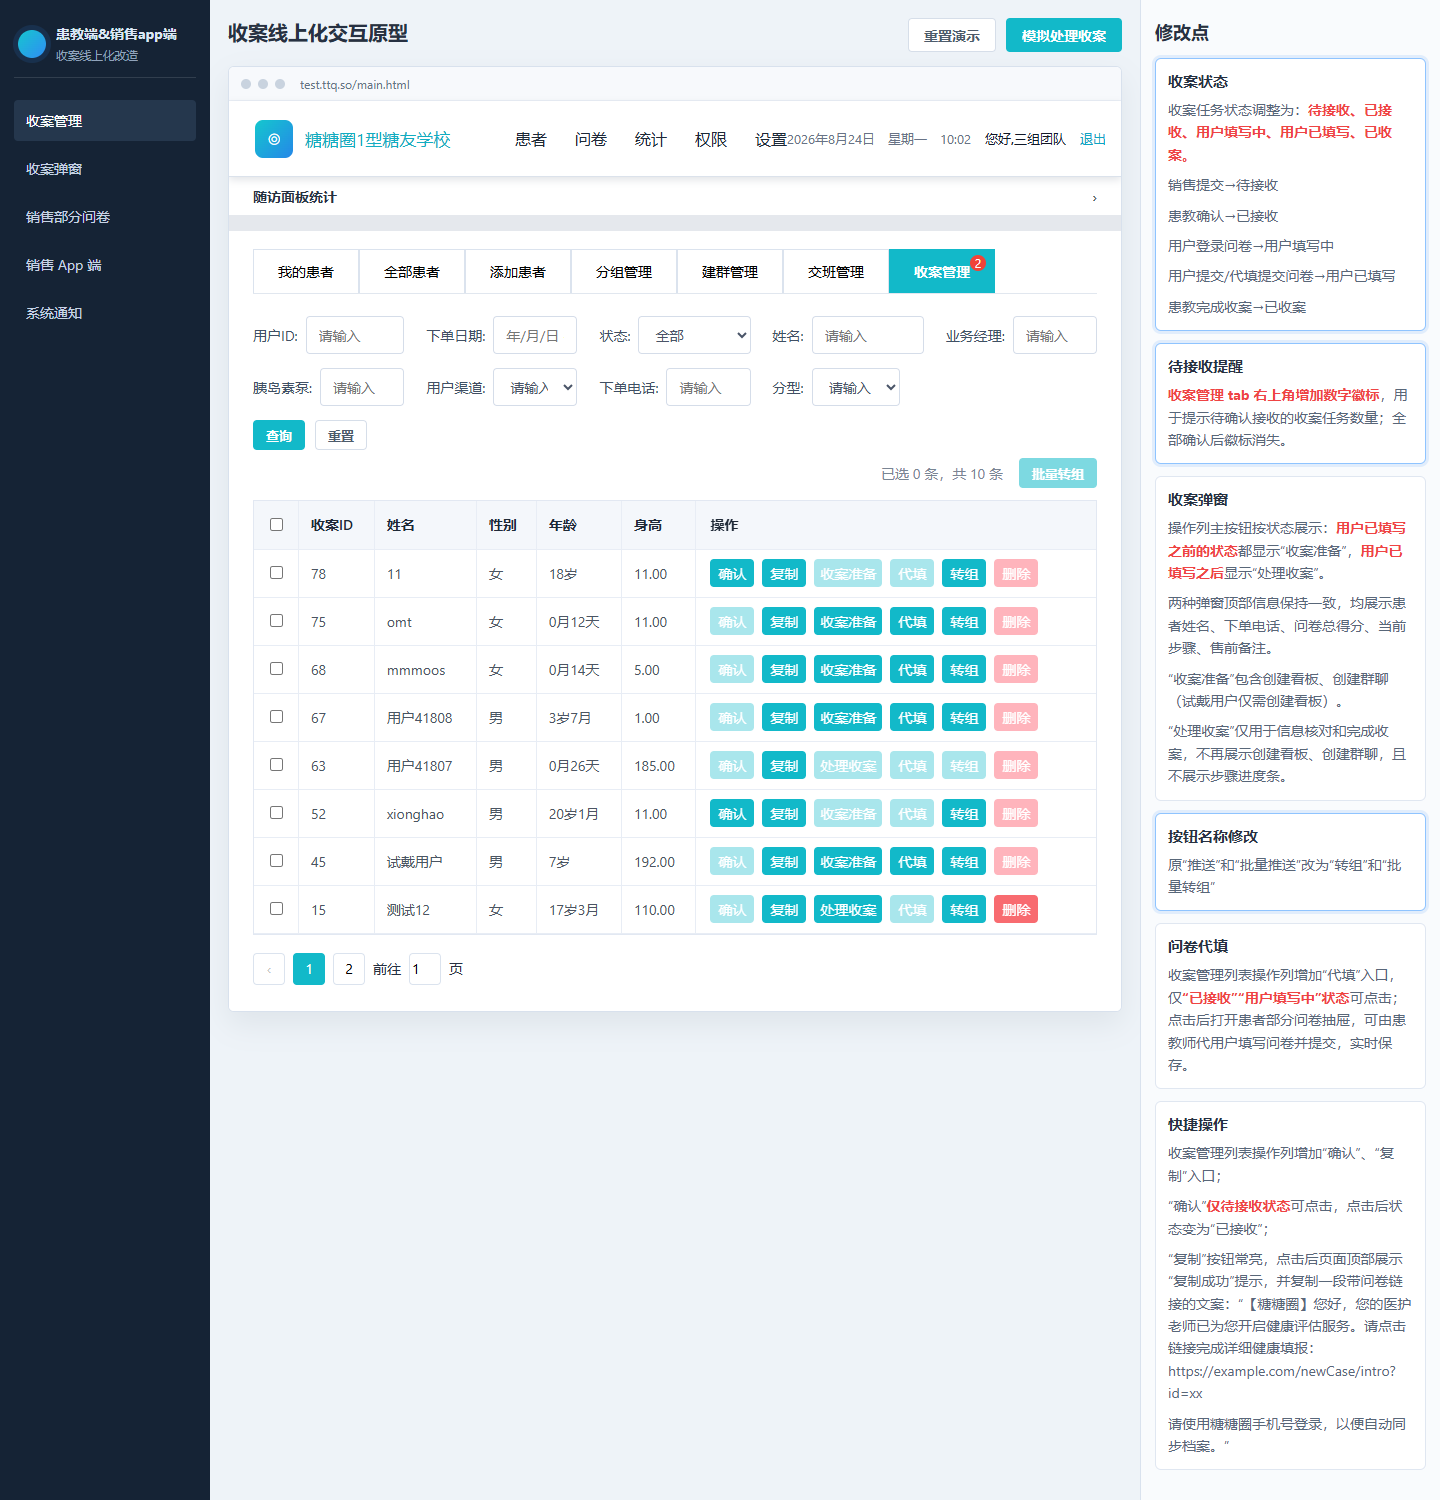
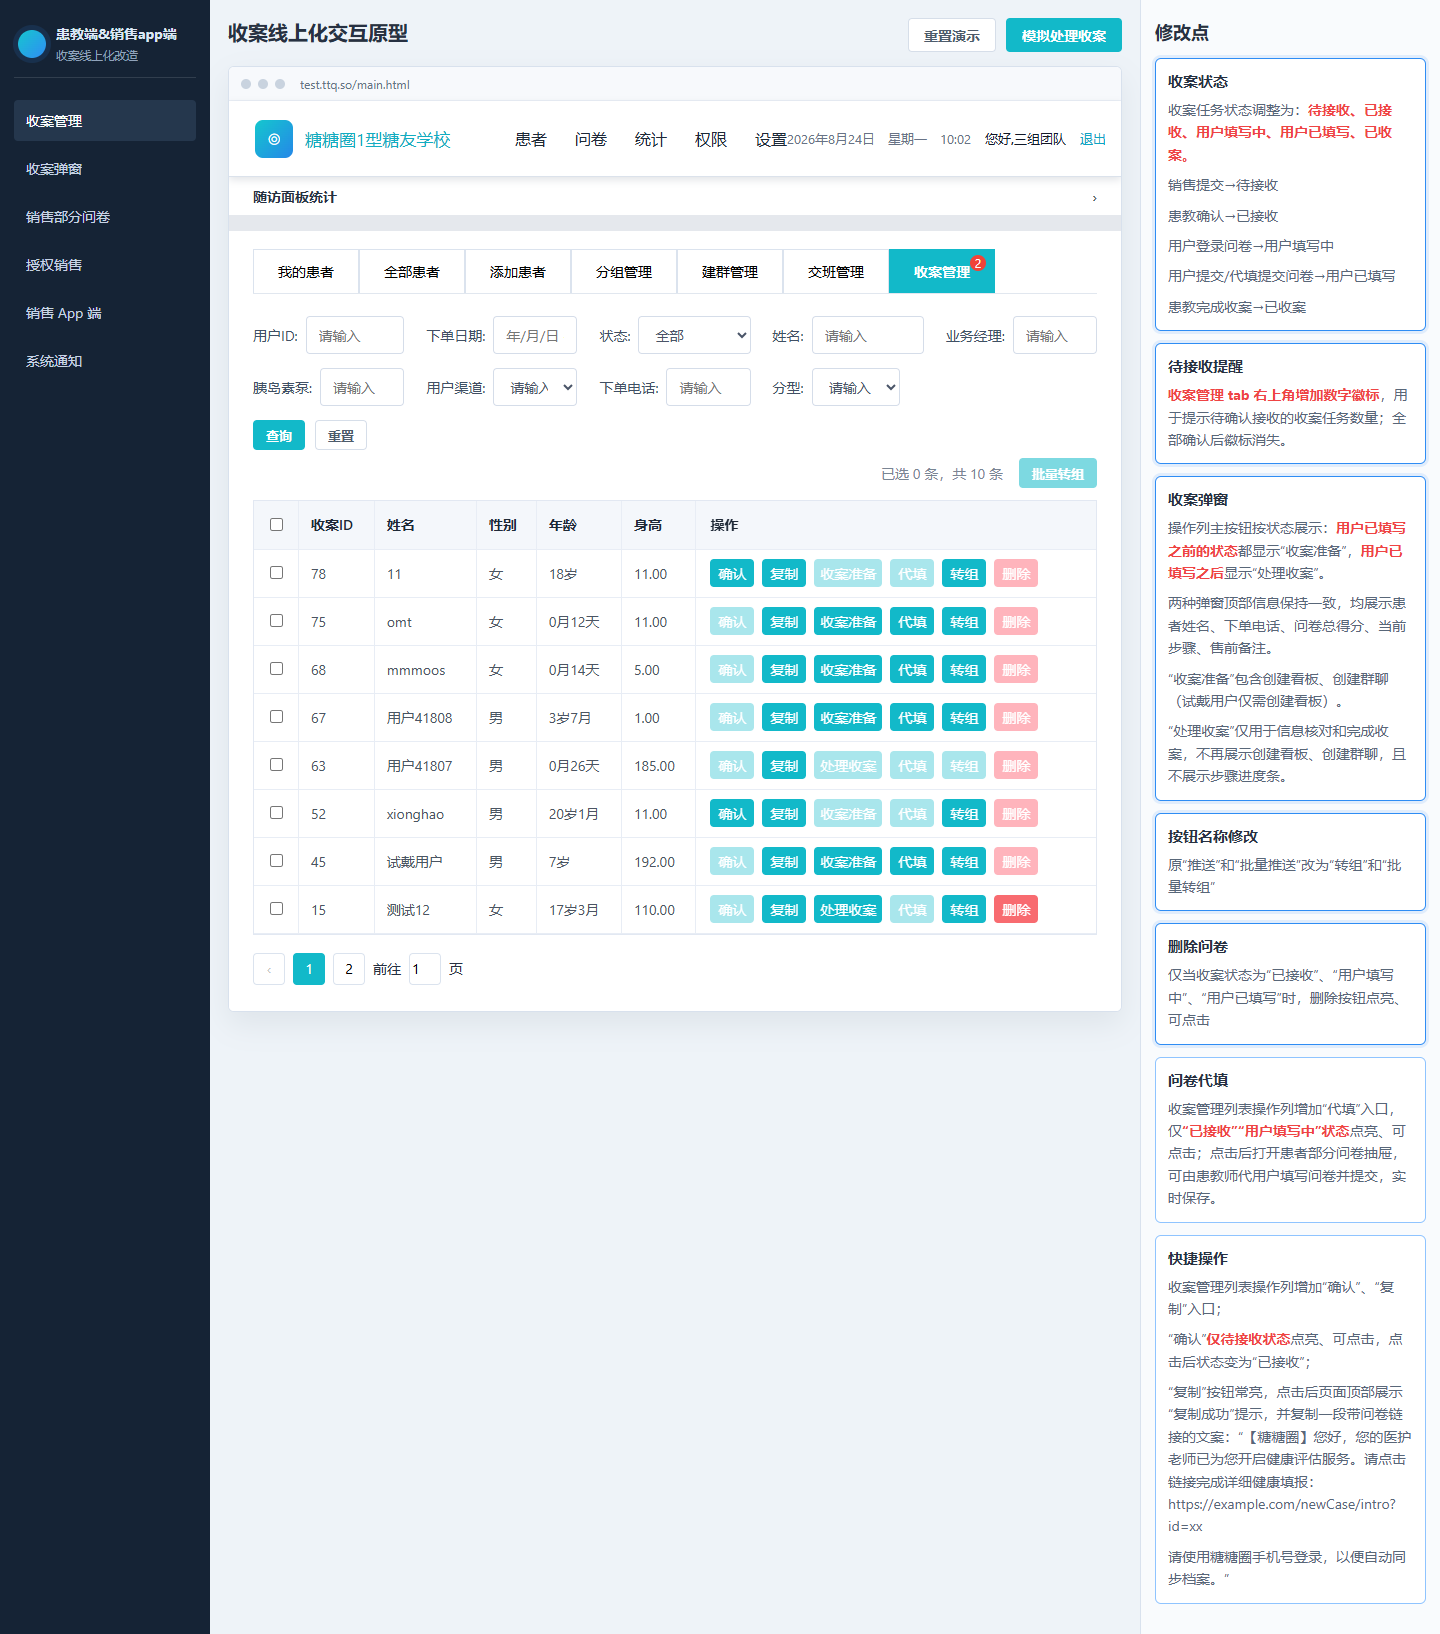
页面修改点ui样式微调

diff --git a/index.html b/index.html
@@ -19,6 +19,7 @@
       <button class="nav-item active" data-view="list">收案管理</button>
       <button class="nav-item" data-view="receive">收案弹窗</button>
       <button class="nav-item" data-view="sales-questionnaire">销售部分问卷</button>
+      <button class="nav-item" data-view="sales-auth">授权销售</button>
       <button class="nav-item" data-view="sales-app">销售 App 端</button>
       <button class="nav-item" data-view="sales-notice">系统通知</button>
     </aside>
@@ -378,6 +379,12 @@
             </div>
           </section>
 
+          <section class="sales-auth-view hidden" id="salesAuthView" aria-label="授权销售页面">
+            <div class="crm-screenshot-shell">
+              <img src="assets/sales-auth-user-list.png" alt="用户列表授权销售操作示意" />
+            </div>
+          </section>
+
           <section class="system-notice-view hidden" id="systemNoticeView" aria-label="系统通知页面">
             <div class="sales-phone notice-phone" aria-label="糖糖圈 App 系统通知页面">
               <div class="phone-status">
@@ -414,12 +421,6 @@
                   </div>
                 </article>
               </div>
-              <button class="notice-sales-float" type="button" id="noticeSalesEntry" aria-label="进入销售客户池">
-                <span class="notice-sales-icon" aria-hidden="true">
-                  <i></i>
-                </span>
-                <b>销售</b>
-              </button>
             </div>
           </section>
 
@@ -642,7 +643,7 @@
         <h3>待接收提醒</h3>
         <p><span class="text-red">收案管理 tab 右上角增加数字徽标</span>，用于提示待确认接收的收案任务数量；全部确认后徽标消失。</p>
       </div>
-      <div class="note-card" data-note="receive">
+      <div class="note-card" data-note="list">
         <h3>收案弹窗</h3>
         <p>操作列主按钮按状态展示：<span class="text-red">用户已填写之前的状态</span>都显示“收案准备”，<span class="text-red">用户已填写之后</span>显示“处理收案”。</p>
         <p>两种弹窗顶部信息保持一致，均展示患者姓名、下单电话、问卷总得分、当前步骤、售前备注。</p>
@@ -653,14 +654,18 @@
         <h3>按钮名称修改</h3>
         <p>原“推送”和“批量推送”改为“转组”和“批量转组”</p>
       </div>
+      <div class="note-card" data-note="list">
+        <h3>删除问卷</h3>
+        <p>仅当收案状态为“已接收”、“用户填写中”、“用户已填写”时，删除按钮点亮、可点击</p>
+      </div>
       <div class="note-card">
         <h3>问卷代填</h3>
-        <p>收案管理列表操作列增加“代填”入口，仅<span class="text-red">“已接收”“用户填写中”状态</span>可点击；点击后打开患者部分问卷抽屉，可由患教师代用户填写问卷并提交，实时保存。</p>
+        <p>收案管理列表操作列增加“代填”入口，仅<span class="text-red">“已接收”“用户填写中”状态</span>点亮、可点击；点击后打开患者部分问卷抽屉，可由患教师代用户填写问卷并提交，实时保存。</p>
       </div>
       <div class="note-card">
         <h3>快捷操作</h3>
         <p>收案管理列表操作列增加“确认”、“复制”入口；</p>
-        <p>“确认”<span class="text-red">仅待接收状态</span>可点击，点击后状态变为“已接收”；</p>
+        <p>“确认”<span class="text-red">仅待接收状态</span>点亮、可点击，点击后状态变为“已接收”；</p>
         <p>“复制”按钮常亮，点击后页面顶部展示“复制成功”提示，并复制一段带问卷链接的文案：“【糖糖圈】您好，您的医护老师已为您开启健康评估服务。请点击链接完成详细健康填报：https://example.com/newCase/intro?id=xx</p>
         <p>请使用糖糖圈手机号登录，以便自动同步档案。”</p>
       </div>
@@ -674,24 +679,23 @@
         <p>6、从“碳水评估技能”开始（含），所有题目的选项和子选项，都改为<span class="text-red">左对齐</span>，本页中的“主要想改善的问题”为示例效果。</p>
 
       </div>
+      <div class="note-card" data-note="sales-auth">
+        <h3>授权销售</h3>
+        <p>1、在糖糖圈管理中心后台 - ttq用户列表 - 操作列，增加“授权销售”操作按钮，点击后需二次确认“确认授权销售吗？”，二次确认后，按钮置灰不可点击。</p>
+      </div>
       <div class="note-card" data-note="sales-app">
         <h3>销售 App 端</h3>
-        <p>1、经授权的销售登录糖糖圈 App 后，通过App内的悬浮窗（见“系统通知”页），进入客户池页面，列表展示<span class="text-red">所有crm客户池 / 糖糖圈用户列表</span>的用户。</p>
-        <p>2、列表用户卡片按创建时间倒序；<span class="text-red">首屏展示20条，上拉刷新</span>；卡片中展示用户昵称、ID、性别、姓名、收案进度、手机号、跟进人。</p>
+        <p>1、经授权的销售登录糖糖圈 App 后，通过 App 金刚区最后一个入口进入客户池页面，列表展示<span class="text-red">所有crm客户池 / 糖糖圈用户列表</span>的用户。</p>
+        <p>2、列表用户卡片按创建时间倒序；<span class="text-red">首屏展示20条，上拉刷新</span>；卡片中展示用户昵称、ID、性别、姓名、收案进度、手机号。</p>
         <p>3、“新收案”按钮：复用已做好的销售部分问卷，填写和提交口径保持不变。</p>
         <p>4、“收案管理”按钮：展示用户的历史收案列表，收案卡片中展示收案ID、下单日期、提交时间、泵型号、当前状态。</p>
         <p>5、顶部筛选：可选昵称、ID、电话；后端查询后返回结果。</p>
-        <p>6、历史收案详情常亮；编辑仅待接收、已接收、待用户填写可点；删除仅待接收可点，患教确认接收后处理权限转到患教侧。</p>
+        <p>6、历史收案详情常亮；编辑仅待接收、已接收、待用户填写点亮、可点；删除仅待接收点亮、可点，患教确认接收后处理权限转到患教侧。</p>
       </div>
       <div class="note-card" data-note="sales-notice">
         <h3>系统通知</h3>
         <p>1、患教端点击“确认”接收收案后，给发起该收案的销售发送 App 系统通知。</p>
         <p>2、通知内容为：患教已接收患者【{昵称}】（ID：{收案 ID}）。</p>
-      </div>
-      <div class="note-card" data-note="sales-notice">
-       <h3>app悬浮入口</h3>
-       <p>在app内增加销售客户池入口，悬浮窗形式<span class="text-red">（需要做成不管切换到app哪个页面均在最上层可见）；如果不行，就在“我的”页面最下面加个固定入口。</span></p>
-       <p>需要后台给销售的糖糖圈app账号增加授权，只有有权限的销售账号登录糖糖圈app才会看到这个入口。</p>
       </div>
     </aside>
   </div>

diff --git a/app.js b/app.js
@@ -28,11 +28,11 @@ const pendingDot = document.querySelector("#pendingDot");
 const tableWrap = document.querySelector(".data-table-wrap");
 const caseManagementView = document.querySelector("#caseManagementView");
 const salesQuestionnaireView = document.querySelector("#salesQuestionnaireView");
+const salesAuthView = document.querySelector("#salesAuthView");
 const salesAppView = document.querySelector("#salesAppView");
 const systemNoticeView = document.querySelector("#systemNoticeView");
 const salesAppTitle = document.querySelector("#salesAppTitle");
 const salesAppBack = document.querySelector("#salesAppBack");
-const noticeSalesEntry = document.querySelector("#noticeSalesEntry");
 const appDeleteSheet = document.querySelector("#appDeleteSheet");
 const appSearchMenu = document.querySelector("[data-search-menu]");
 const appSearchFilterLabel = document.querySelector("[data-search-filter-label]");
@@ -138,6 +138,7 @@ function showCaseManagement() {
   closeSalesSubmitWarning();
   caseManagementView.classList.remove("hidden");
   salesQuestionnaireView.classList.add("hidden");
+  salesAuthView.classList.add("hidden");
   salesAppView.classList.add("hidden");
   systemNoticeView.classList.add("hidden");
   window.requestAnimationFrame(resetTableScroll);
@@ -150,6 +151,20 @@ function showSalesQuestionnaire() {
   appShell.classList.add("sales-mode");
   caseManagementView.classList.add("hidden");
   salesQuestionnaireView.classList.remove("hidden");
+  salesAuthView.classList.add("hidden");
+  salesAppView.classList.add("hidden");
+  systemNoticeView.classList.add("hidden");
+}
+
+function showSalesAuth() {
+  reviewShell.classList.remove("notes-hidden");
+  notesPanel.classList.remove("hidden");
+  browserFrame.classList.add("sales-mode");
+  appShell.classList.add("sales-mode");
+  closeSalesSubmitWarning();
+  caseManagementView.classList.add("hidden");
+  salesQuestionnaireView.classList.add("hidden");
+  salesAuthView.classList.remove("hidden");
   salesAppView.classList.add("hidden");
   systemNoticeView.classList.add("hidden");
 }
@@ -162,6 +177,7 @@ function showSalesApp(pageName = "users") {
   closeSalesSubmitWarning();
   caseManagementView.classList.add("hidden");
   salesQuestionnaireView.classList.add("hidden");
+  salesAuthView.classList.add("hidden");
   salesAppView.classList.remove("hidden");
   systemNoticeView.classList.add("hidden");
   openSalesAppPage(pageName);
@@ -175,6 +191,7 @@ function showSystemNotice() {
   closeSalesSubmitWarning();
   caseManagementView.classList.add("hidden");
   salesQuestionnaireView.classList.add("hidden");
+  salesAuthView.classList.add("hidden");
   salesAppView.classList.add("hidden");
   systemNoticeView.classList.remove("hidden");
 }
@@ -257,7 +274,7 @@ function setView(view) {
   });
   document.querySelectorAll(".note-card").forEach(card => {
     const scopedNote = card.dataset.note;
-    const scopedViews = ["sales-questionnaire", "sales-app", "sales-notice"];
+    const scopedViews = ["sales-questionnaire", "sales-auth", "sales-app", "sales-notice"];
     const isScopedView = scopedViews.includes(view);
     card.classList.toggle("hidden", isScopedView ? scopedNote !== view : scopedViews.includes(scopedNote));
     card.classList.toggle("active", card.dataset.note === view);
@@ -265,6 +282,8 @@ function setView(view) {
 
   if (view === "sales-questionnaire") {
     showSalesQuestionnaire();
+  } else if (view === "sales-auth") {
+    showSalesAuth();
   } else if (view === "sales-app") {
     showSalesApp();
   } else if (view === "sales-notice") {
@@ -386,10 +405,6 @@ document.querySelectorAll("[data-close-submit-warning]").forEach(button => {
 });
 
 salesAppBack.addEventListener("click", backSalesAppPage);
-noticeSalesEntry.addEventListener("click", () => {
-  setView("sales-app");
-  openSalesAppPage("users");
-});
 
 document.querySelectorAll("[data-toggle-group]").forEach(group => {
   group.addEventListener("click", event => {

diff --git a/styles.css b/styles.css
@@ -1013,11 +1013,27 @@ button {
   font-weight: 700;
 }
 
+.sales-auth-view,
 .sales-app-view,
 .system-notice-view {
   min-height: 960px;
   padding: 28px;
   background: #eef6f8;
+}
+
+.crm-screenshot-shell {
+  overflow: auto;
+  border: 1px solid #d8e1ed;
+  border-radius: 6px;
+  background: #fff;
+  box-shadow: 0 12px 30px rgba(31, 45, 61, .08);
+}
+
+.crm-screenshot-shell img {
+  display: block;
+  width: 100%;
+  min-width: 1280px;
+  height: auto;
 }
 
 .sales-phone {
@@ -1597,71 +1613,6 @@ button {
   font-weight: 600;
 }
 
-.notice-sales-float {
-  position: absolute;
-  right: 18px;
-  bottom: 92px;
-  z-index: 2;
-  display: grid;
-  justify-items: center;
-  gap: 4px;
-  width: 58px;
-  border: 0;
-  background: transparent;
-}
-
-.notice-sales-icon {
-  position: relative;
-  display: grid;
-  place-items: center;
-  width: 42px;
-  height: 42px;
-  border-radius: 50%;
-  background: linear-gradient(145deg, #6dc7ff, #257bdc);
-  box-shadow: 0 8px 18px rgba(37, 123, 220, .24);
-}
-
-.notice-sales-icon::before,
-.notice-sales-icon::after {
-  content: "";
-  position: absolute;
-  background: #ff8b39;
-}
-
-.notice-sales-icon::before {
-  top: 12px;
-  left: 7px;
-  width: 7px;
-  height: 13px;
-  border-radius: 6px 0 0 6px;
-}
-
-.notice-sales-icon::after {
-  top: 12px;
-  right: 7px;
-  width: 7px;
-  height: 13px;
-  border-radius: 0 6px 6px 0;
-}
-
-.notice-sales-icon i {
-  width: 18px;
-  height: 12px;
-  border: 3px solid #fff;
-  border-top: 0;
-  border-radius: 0 0 12px 12px;
-}
-
-.notice-sales-float b {
-  min-width: 42px;
-  padding: 3px 8px;
-  border-radius: 4px;
-  color: #6b7280;
-  background: #e9edf4;
-  font-size: 12px;
-  line-height: 1;
-}
-
 .notes-panel {
   padding: 18px 14px;
   border-left: 1px solid #d9e2ee;
@@ -1676,7 +1627,7 @@ button {
 .note-card {
   margin-bottom: 12px;
   padding: 12px;
-  border: 1px solid #e0e7f1;
+  border: 1px solid #8fc4ff;
   border-radius: 6px;
   background: #fff;
 }
@@ -1687,7 +1638,7 @@ button {
 }
 
 .note-card.active {
-  border-color: #8fc4ff;
+  border-color: #2f8df4;
   box-shadow: 0 0 0 3px rgba(47, 141, 244, .12);
 }
 
